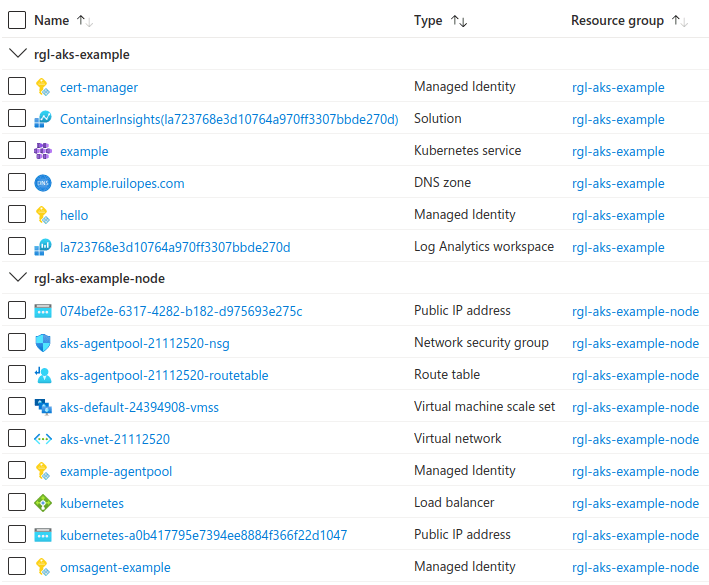
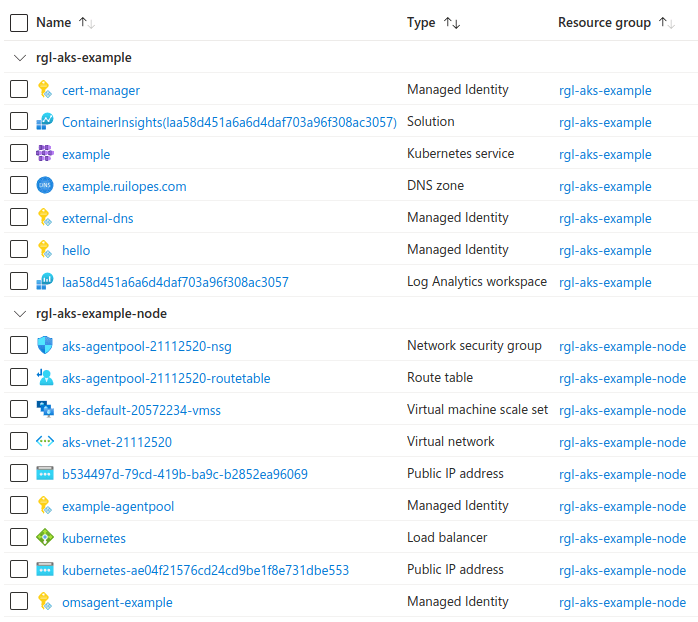
configure external-dns to use azure workload identity authentication

diff --git a/README.md b/README.md
@@ -11,6 +11,7 @@ This will use [terraform](https://www.terraform.io/) to:
 * Create a public [Azure DNS Zone](https://learn.microsoft.com/en-us/azure/dns/dns-overview).
 * Use [Traefik](https://traefik.io/) as the Ingress Controller.
 * Use [external-dns](https://github.com/kubernetes-sigs/external-dns) to create the Ingress DNS Resource Records in the Azure DNS Zone.
+  * With [Azure Workload Identity](https://azure.github.io/azure-workload-identity/docs/) authentication.
 * Use [cert-manager](https://github.com/cert-manager/cert-manager) to create [Let's Encrypt](https://letsencrypt.org/) issued certificates using the [ACME DNS-01 challenge](https://letsencrypt.org/docs/challenge-types/#dns-01-challenge).
   * With [Azure Workload Identity](https://azure.github.io/azure-workload-identity/docs/) authentication.
 
@@ -93,26 +94,6 @@ dig ns $dns_zone "@$dns_zone_name_server" # verify with azure dns.
 dig ns $dns_zone                # verify with your local resolver.
 ```
 
-Show the `external-dns` application and role assignments:
-
-**NB** Only the single `DNS Zone Contributor` assignment is expected.
-
-```bash
-external_dns_application_id="$(
-  terraform show -json \
-    | jq \
-        -r \
-        '.values.root_module.resources[]
-          | select(.address == "azuread_application.external_dns")
-          | .values.application_id'
-)"
-az ad sp show \
-  --id "$external_dns_application_id"
-az role assignment list \
-  --all \
-  --assignee "$external_dns_application_id"
-```
-
 See some information about the cluster:
 
 ```bash
@@ -124,11 +105,29 @@ kubectl get pvc --all-namespaces
 kubectl get storageclass
 ```
 
+In case you need to troubleshoot, you can use:
+
+```bash
+kubectl events --all-namespaces --watch
+kubectl events -n kube-system deployment/external-dns --watch
+kubectl logs -n kube-system deployment/external-dns --follow
+```
+
 List the installed helm releases:
 
 ```bash
 export KUBECONFIG=$PWD/shared/kube.conf
 helm list --all-namespaces
+```
+
+Show a helm release status, the user supplied values, and the chart managed
+kubernetes resources:
+
+```bash
+helm status -n kube-system external-dns
+helm get values -n kube-system external-dns
+helm get values -n kube-system external-dns --all
+helm get manifest -n kube-system external-dns
 ```
 
 Deploy the example `hello` workload:
